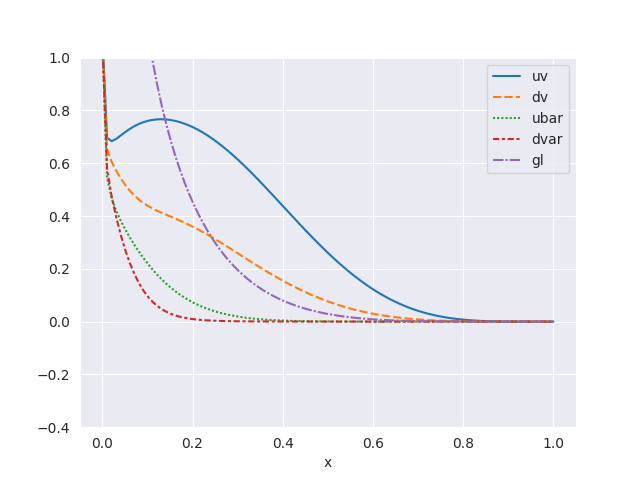
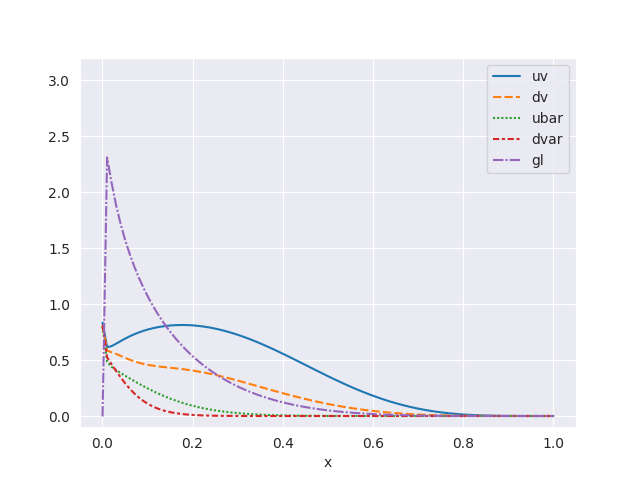
last version, still failing the evolution

diff --git a/fixedparameterscalculation_and_xpdfq0graph.py b/fixedparameterscalculation_and_xpdfq0graph.py
@@ -100,15 +100,12 @@ x_qv = x_uv + x_dv   		# pdf for the sum of valence quarks pdfs
 x_qs = x_ubar + x_dbar  # pdf for the sum of sea quarks pdfs
 x_Sigma = x_uv + x_dv + 2*x_ubar + 2*(1+gamma_s)*x_dbar   
 
-#print("valores iniciales x_uv: ", x_uv[0], "x_dv: ", x_dv[0], "x_ubar: ", x_ubar[0], "x_dbar: ", x_dbar[0], "x_g: ", x_g[0])
+with open("data.txt", "w") as f:
+	f.write("x uv dv \n")
+	for i in range(10):
+		line = str(x[i]) + " " + str(x_uv[i]) + " " + str(x_dv[i]) +"\n"
+		f.write(line)
 
-print("algunos valores son: \n para x=5.2427e-4: \n xg: ",  x_pdf(x[0], A_g, B_g, C_g , 0, 0, F_g, G_g), " xuv: ", x_pdf(x[0], A_uv, B_uv, C_uv , 0, E_uv, F_uv, G_uv),
-				" xdv: ", x_pdf(x[0], A_dv, B_dv, C_dv , 0, 0, 0, 0), " xubar: ", x_pdf(x[0], A_ubar, B_ubar, C_ubar , D_ubar, 0, F_ubar, 0), " xdbar: ", x_pdf(x[0], A_dbar, B_dbar, C_dbar , D_dbar, 0, F_dbar, 0) )
-
-#print("para x=0.01: \n xg: ",  x_pdf(0.01, A_g, B_g, C_g , 0, 0, F_g, G_g), " xuv: ", x_pdf(0.01, A_uv, B_uv, C_uv , 0, E_uv, F_uv, G_uv),
-#				" xdv: ", x_pdf(0.01, A_dv, B_dv, C_dv , 0, 0, 0, 0), " xubar: ", x_pdf(0.01, A_ubar, B_ubar, C_ubar , D_ubar, 0, F_ubar, 0), " xdbar: ", x_pdf(0.01, A_dbar, B_dbar, C_dbar , D_dbar, 0, F_dbar, 0) )
-
-#print(min(x_ubar), min(x_dbar), min(x_dv), min(x_uv), min(x_g))
 
 # converting to pd.DataFrames for graph in seaborn. And for convert easily into .csv
 x_q = pd.DataFrame({'x$u_{v}$': x_uv, 'x$d_{v}$': x_dv, 'x$\\bar{u}$': x_ubar, 'x$\\bar{d}$': x_dbar}, index=x)

diff --git a/pdfs_evolution_graphs.py b/pdfs_evolution_graphs.py
@@ -12,13 +12,17 @@ import seaborn as sns
 import pandas as pd
 import glob
 from PIL import Image
+import os
 
-sns.set_style("darkgrid")
+# to delete the old images
+os.system("rm imgs/python/*.png imgs/python/*.gif")
 
 output_directory_url = "/opt/qcdnum-17-01-14/output/"   # url of the directory where the output files of qcdnum script are stored.
 save_imgs_url = "/home/angelica/Documents/thesis/imgs/python/"
 
 names = []
+
+sns.set_style("darkgrid")
 
 # for each .csv output file cotained in output_directory_url.
 for csv in glob.glob(output_directory_url + "*.csv"):
@@ -29,12 +33,12 @@ for csv in glob.glob(output_directory_url + "*.csv"):
   dataset = pd.read_csv(csv, delimiter=" ")
   dataset = dataset.set_index("x")
 
-  names.append(int(q*10))
+  names.append(int(q*100))
 
   plt.figure()
-  sns.lineplot(data=dataset.iloc[:,:])   # without gluons graph
-  plt.ylim((-0.4, 1))
-  plt.savefig(save_imgs_url + str(int(q*10)) + ".png")
+  sns.lineplot(data=dataset.iloc[:,:])   #, palette=['orange']
+  plt.ylim((-0.1, 3.2))
+  plt.savefig(save_imgs_url + str(int(q*100)) + ".png")
 
 names.sort()
 
